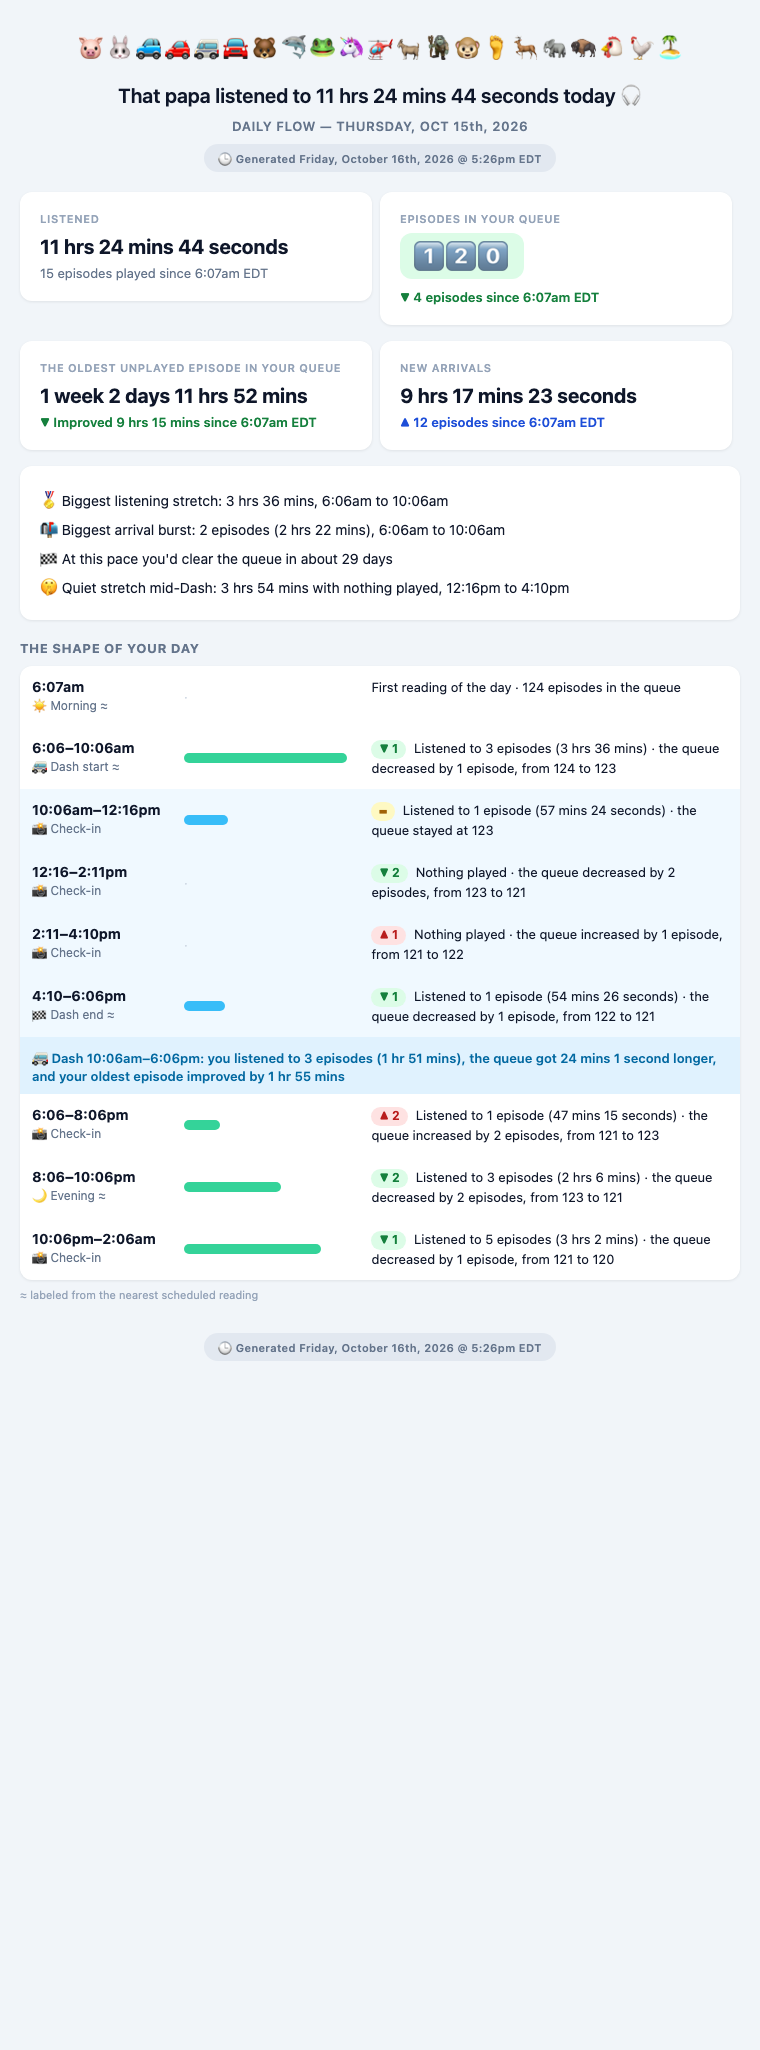
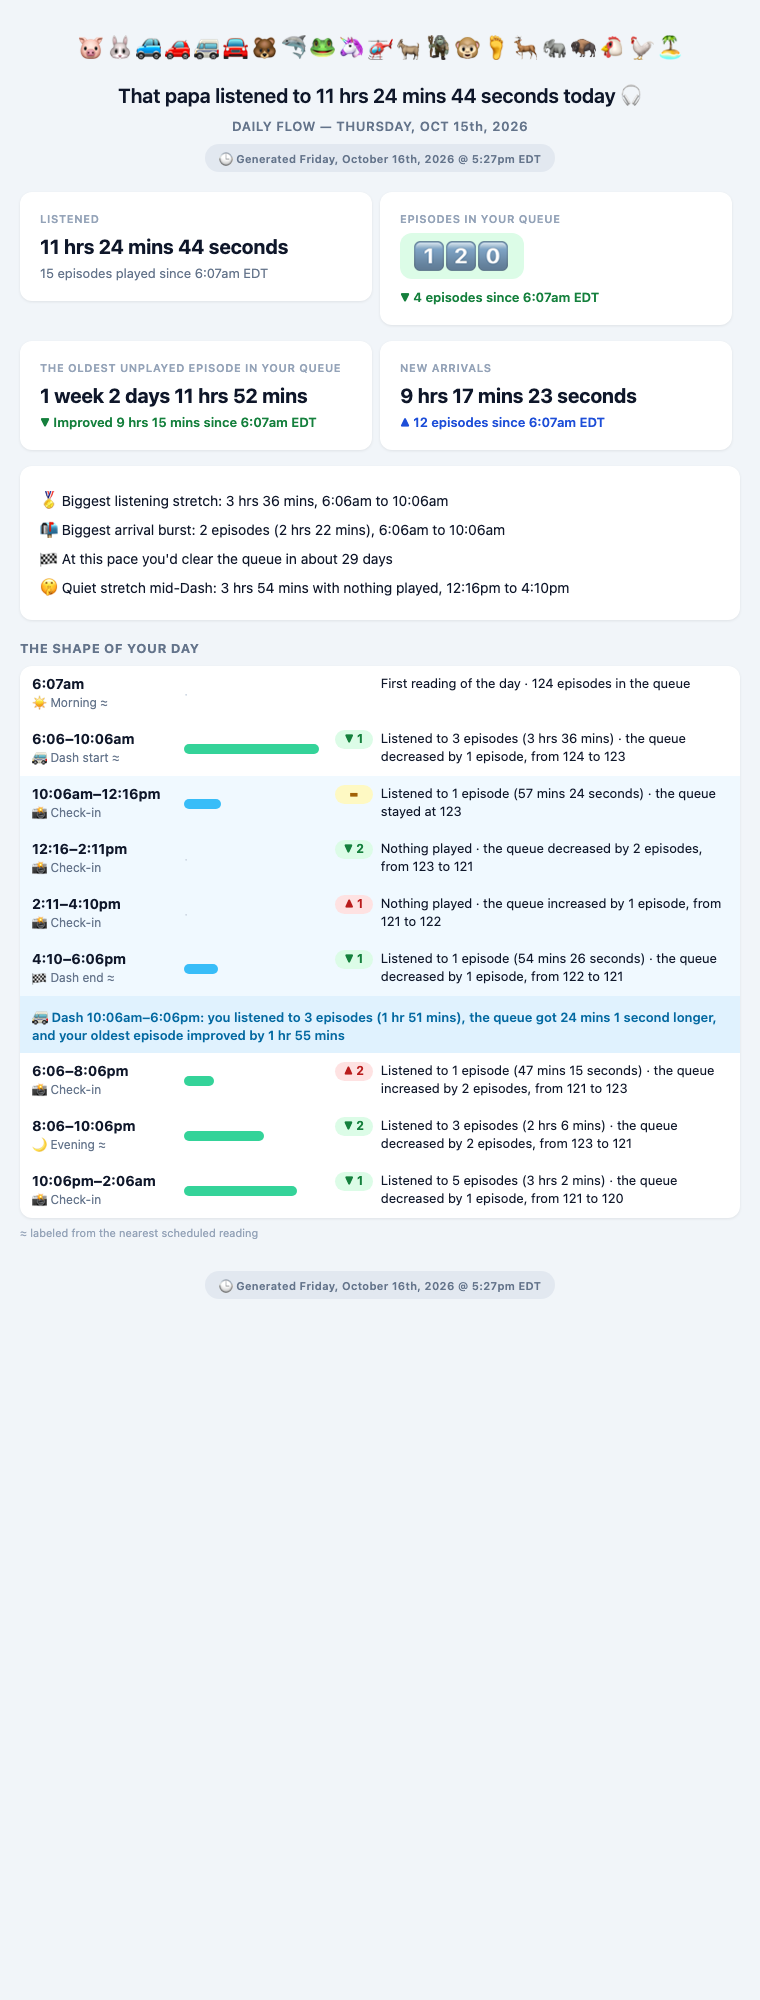
Flow web report: tighter spacing in the timeline's last column
The queue chip sits in a fixed-width column so the text lines up on every row
and wraps under itself, with smaller row padding and a tighter playing line.

Changed region(s): [[0.0303, 0.0, 0.9684, 0.651], [0.8776, 0.0, 0.9079, 0.031]]

diff --git a/flow.py b/flow.py
@@ -966,7 +966,7 @@ def mini_playing_html(np):
         link = np.get("episode_url") or np.get("podcast_url")
         art = f'<a href="{html.escape(link)}" target="_blank">{img}</a>' if link else img
     return (
-        '<div style="display:flex;gap:10px;align-items:center;margin-top:8px;">'
+        '<div style="display:flex;gap:8px;align-items:center;margin-top:6px;">'
         + (f'<div style="flex:0 0 36px;">{art}</div>' if art else "")
         + '<div style="flex:1;min-width:0;font-size:12px;line-height:1.35;">'
         '<span style="color:#047857;font-weight:700;">▶ Playing</span> '
@@ -988,12 +988,14 @@ def timeline_html(s, tz=None):
         bar = (f'<div style="height:10px;border-radius:5px;background:{"#38bdf8" if shaded else "#34d399"};width:{width}%;"></div>'
                if width else '<div style="font-size:11px;color:#cbd5e1;">·</div>')
         text, tone, delta = window_story(w)
-        chip = ""
+        chip_css = ("flex:0 0 38px;text-align:center;box-sizing:border-box;font-size:12px;font-weight:700;"
+                    "border-radius:10px;padding:1px 0;white-space:nowrap;")
         if tone:
             bg, fg, arrow = QUEUE_TONES[tone]
-            chip = (f'<span style="display:inline-block;background:{bg};color:{fg};font-weight:700;font-size:12px;'
-                    f'border-radius:10px;padding:1px 8px;margin-right:8px;white-space:nowrap;">'
+            chip = (f'<span style="{chip_css}background:{bg};color:{fg};">'
                     f'{arrow}{"" if not delta else " " + str(abs(delta))}</span>')
+        else:
+            chip = f'<span style="{chip_css}"></span>'
         when = clock(sn, tz) if w.get("first") else window_label(sn, tz)
         # show what was playing only when it changes, not on every row of one long episode
         np = sn.get("now_playing")
@@ -1002,12 +1004,13 @@ def timeline_html(s, tz=None):
             last_playing = np.get("title")
         rows += (
             f'<tr style="{dash_style}">'
-            f'<td style="padding:12px;white-space:nowrap;vertical-align:top;">'
+            f'<td style="padding:9px 12px;white-space:nowrap;vertical-align:top;">'
             f'<div style="font-weight:700;font-size:14px;">{html.escape(when)}</div>'
             f'<div style="font-size:12px;color:#64748b;">{html.escape(label_name(sn))}</div></td>'
-            f'<td style="padding:12px;width:26%;vertical-align:middle;">{bar}</td>'
-            f'<td style="padding:12px;font-size:13px;vertical-align:top;line-height:1.4;">{chip}{html.escape(text)}'
-            f'{playing_html}</td>'
+            f'<td style="padding:9px 12px;width:22%;vertical-align:middle;">{bar}</td>'
+            f'<td style="padding:9px 12px 9px 4px;font-size:13px;vertical-align:top;line-height:1.35;">'
+            f'<div style="display:flex;gap:8px;align-items:flex-start;">{chip}'
+            f'<div style="flex:1;min-width:0;">{html.escape(text)}{playing_html}</div></div></td>'
             '</tr>'
         )
         if sn["label"] == "dash-start":
